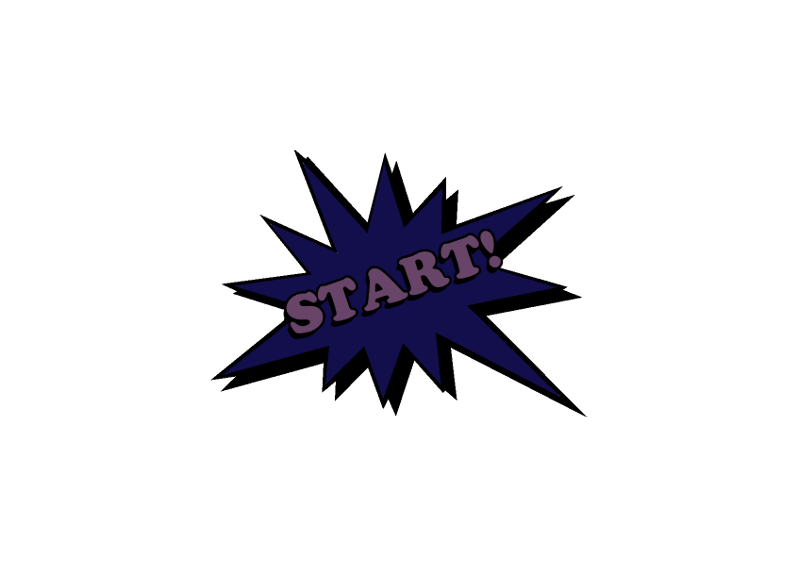
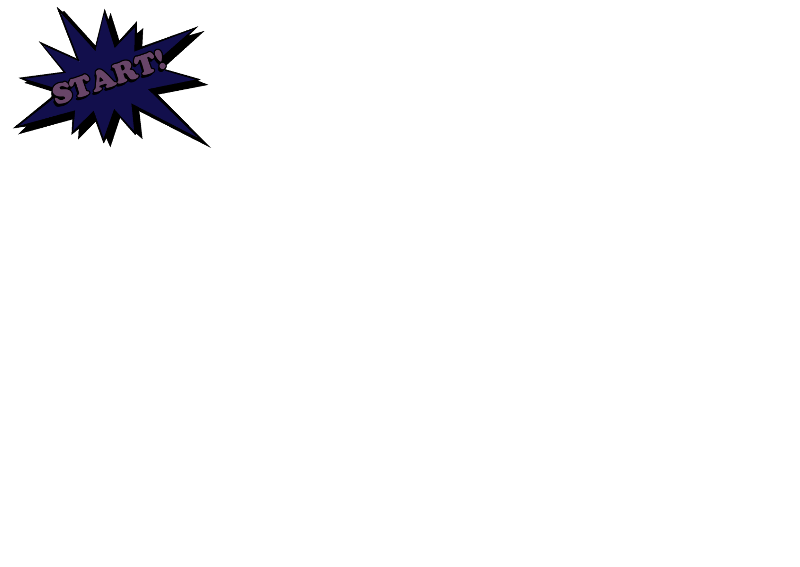
ok

Changed region(s): [[0.25, 0.2698, 0.7188, 0.7196], [0.0, 0.0, 0.25, 0.2698], [0.7188, 0.7196, 0.75, 0.7496]]

diff --git a/DirectXGame/DirectXGame/engine/secne/TitleScene.cpp b/DirectXGame/DirectXGame/engine/secne/TitleScene.cpp
@@ -15,11 +15,11 @@ void TitleScene::Initialize()
 {
 	// タイトルpushスプライト
 	HitTextureHandle_ = TextureManager::Load("hit.png");
-	HitSprite_ = Sprite::Create(HitTextureHandle_, { 170,200 });
+	HitSprite_ = Sprite::Create(HitTextureHandle_, { 380,200 });
 
 	// タイトルスプライト
 	TitleTextureHandle_ = TextureManager::Load("Title.png");
-	TitleSprite_ = Sprite::Create(TitleTextureHandle_, { 525,250 });
+	TitleSprite_ = Sprite::Create(TitleTextureHandle_, { 380,-50 });
 
 	// ルール説明スプライト
 	ruleTextureHandle_ = TextureManager::Load("Rule.png");
@@ -31,10 +31,10 @@ void TitleScene::Initialize()
 
 	// STARTランプスプライト
 	gogoOFFTextureHandle_ = TextureManager::Load("gogoOFF.png");
-	gogoOFFSprite_ = Sprite::Create(gogoOFFTextureHandle_, {170, 200});
+	gogoOFFSprite_ = Sprite::Create(gogoOFFTextureHandle_, {0, 550});
 
 	gogoONTextureHandle_ = TextureManager::Load("gogoON.png");
-	gogoONSprite_ = Sprite::Create(gogoONTextureHandle_, {170, 200});
+	gogoONSprite_ = Sprite::Create(gogoONTextureHandle_, {0, 550});
 
 	// 背景ステージ
 	stage1 = std::make_unique<Stage>();

diff --git a/DirectXGame/main.cpp b/DirectXGame/main.cpp
@@ -121,7 +121,7 @@ void ChangeScene() {
     switch (scene)
     {
     case Scene::kTitleScene:
-        if (!isTransitioning && Input::GetInstance()->TriggerKey(DIK_RETURN)) {
+        if (!isTransitioning && Input::GetInstance()->TriggerKey(DIK_SPACE)) {
             fade.StartFadeOut();
             isTransitioning = true;
         }
